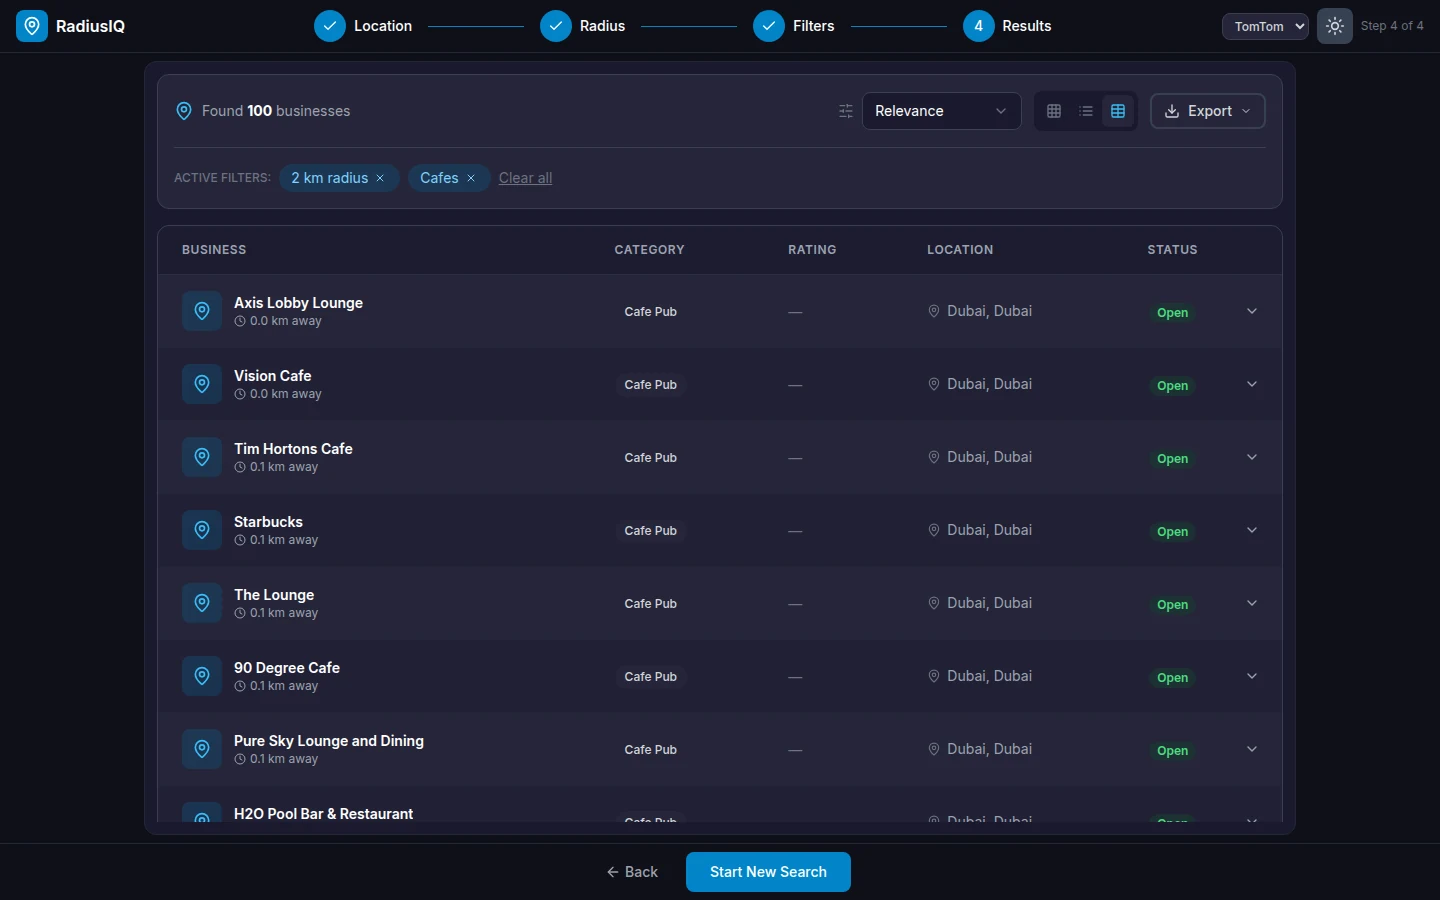
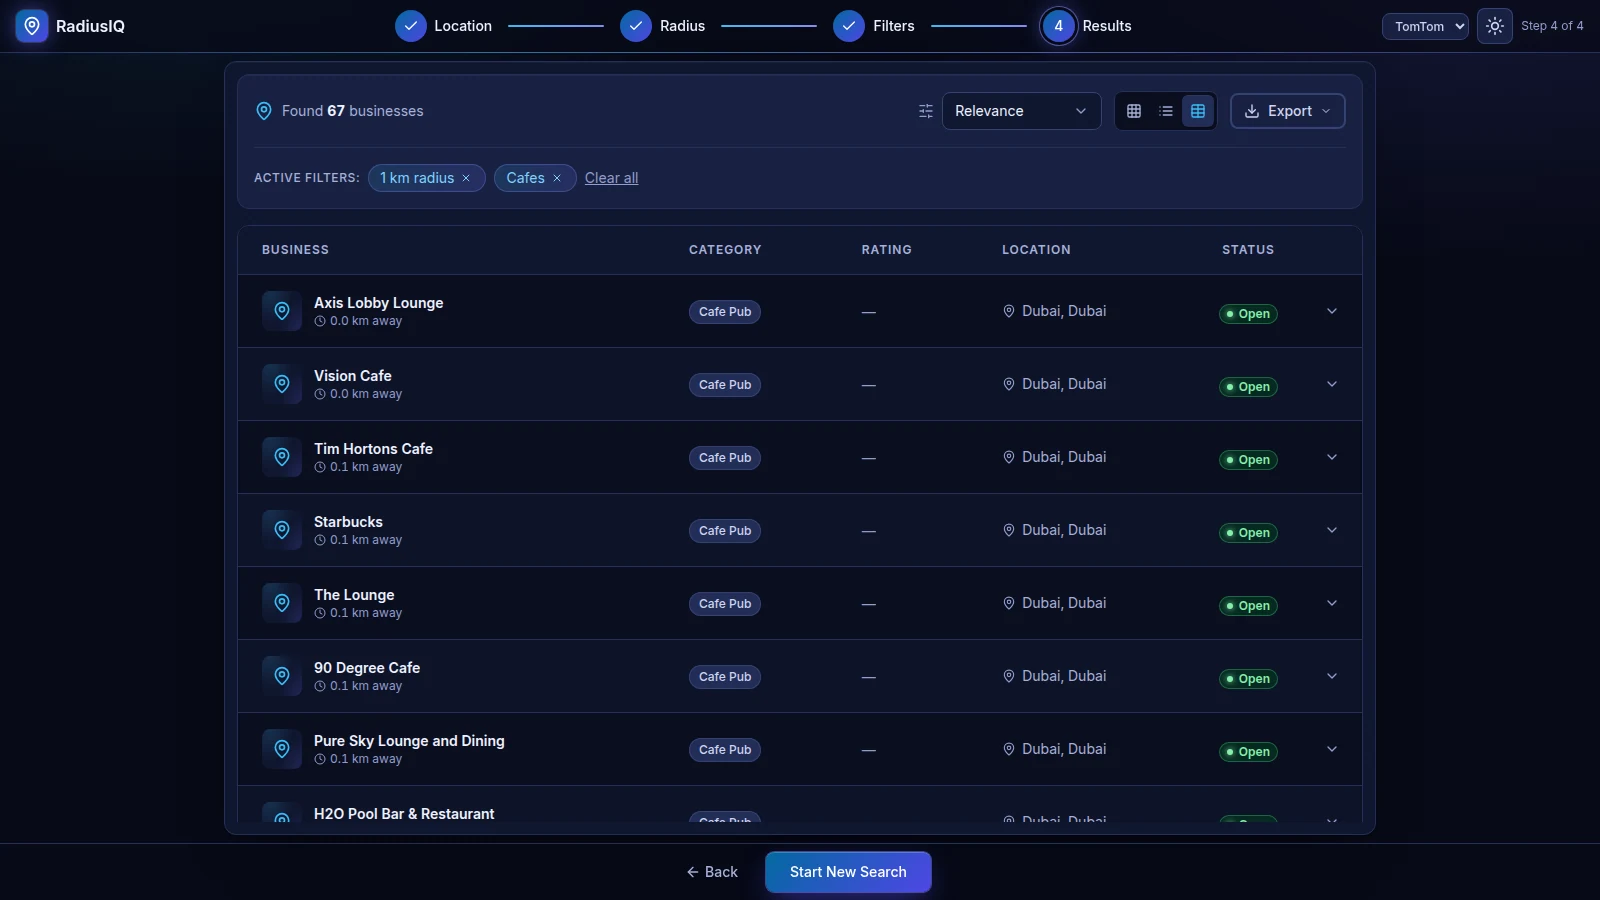
Show the light and dark themes in the screenshots
Replace the screenshots with new 1600x900 captures of the live site in
both the dark Midnight theme and the light theme, from one search for
cafes within 1 km of Dubai Marina. Put a dark hero at the top, lay the
rest out as a dark/light grid, describe the themes in the features list
and remove the old images.

diff --git a/README.md b/README.md
@@ -25,33 +25,50 @@
 > This is a showcase repository. The source code is private (personal project). It documents what the product does, how it's built and my role. Happy to walk through the code in an interview.
 
 <p align="center">
-  <img src="docs/screenshots/results-table.webp" width="100%" alt="RadiusIQ results step in table view: 100 cafes found within a 2 km radius of Dubai Marina, with distance, category, rating and location columns" />
+  <img src="docs/screenshots/radius-dark.webp" width="100%" alt="RadiusIQ in the dark Midnight theme, radius step: slider and 1 km preset selected, with a glowing sky-blue 1 km circle drawn over darkened OpenStreetMap tiles of Dubai Marina" />
 </p>
 
 ## Screenshots
 
-All screenshots are real captures of the live site, taken during one search for cafes within 2 km of Dubai Marina (TomTom provider). The results are public points of interest returned by the TomTom Search API.
+RadiusIQ has a light theme and a dark "Midnight" theme, and every screen is shown in both below. All screenshots are real captures of the live site at 1600x900, taken during one search for cafes within 1 km of Dubai Marina (TomTom provider). The results are public points of interest returned by the TomTom Search API.
 
-<p align="center">
-  <img src="docs/screenshots/location-dubai-marina.webp" width="49%" alt="Step 1, Location: 'Dubai Marina' geocoded from the search box, map centred on the Marina with the coordinates shown next to a Use my location button" />
-  <img src="docs/screenshots/radius-selection.webp" width="49%" alt="Step 2, Radius: slider set to 2 km with 1/5/10/25/50 km presets and the search circle drawn on the map" />
-</p>
-<p align="center">
-  <img src="docs/screenshots/category-filters-searching.webp" width="49%" alt="Step 3, Filters: search summary (coordinates, 2 km radius, 1 category), optional keyword field, Cafes selected among 25 categories in 5 groups, and the Search button in its Searching state" />
-  <img src="docs/screenshots/results-list.webp" width="49%" alt="Step 4, Results in list view: cafe cards with category, distance from the centre point and address" />
-</p>
-<p align="center">
-  <img src="docs/screenshots/business-detail.webp" width="49%" alt="Business detail page for a cafe: name, category, address, a mini map with the location pin, Open in Google Maps and Get Directions actions" />
-  <img src="docs/screenshots/results-table-dark.webp" width="49%" alt="Results table in dark mode" />
-</p>
-
-**Mobile**
-
-<p align="center">
-  <img src="docs/screenshots/mobile-location.webp" width="30%" alt="Mobile: location step with the geocoded Dubai Marina point and radius circle" />
-  <img src="docs/screenshots/mobile-filters.webp" width="30%" alt="Mobile: filters step with search summary, keyword field and category chips" />
-  <img src="docs/screenshots/mobile-business-detail.webp" width="30%" alt="Mobile: business detail page with header card, address and map" />
-</p>
+<table>
+  <tr>
+    <th width="14%"></th>
+    <th width="43%">Dark (Midnight)</th>
+    <th width="43%">Light</th>
+  </tr>
+  <tr>
+    <td><b>1. Location</b></td>
+    <td><img src="docs/screenshots/location-dark.webp" width="100%" alt="Step 1, Location, dark theme: Dubai Marina geocoded from the search box, coordinates next to a Use my location button, and the default circle on darkened map tiles" /></td>
+    <td><img src="docs/screenshots/location-light.webp" width="100%" alt="Step 1, Location, light theme: Dubai Marina geocoded from the search box with the map centred on it and the default search circle" /></td>
+  </tr>
+  <tr>
+    <td><b>2. Radius</b></td>
+    <td align="center"><sub>Shown at the top</sub></td>
+    <td><img src="docs/screenshots/radius-light.webp" width="100%" alt="Step 2, Radius, light theme: slider set to 1 km with 1/5/10/25/50 km presets and the 1 km circle drawn in dark blue on the map" /></td>
+  </tr>
+  <tr>
+    <td><b>3. Filters</b></td>
+    <td><img src="docs/screenshots/filters-dark.webp" width="100%" alt="Step 3, Filters, dark theme: search summary with coordinates, 1 km radius and 1 category, an optional keyword field, and Cafes selected among 25 categories in 5 groups" /></td>
+    <td><img src="docs/screenshots/filters-light.webp" width="100%" alt="Step 3, Filters, light theme: the same summary, keyword field and category chips with Cafes selected" /></td>
+  </tr>
+  <tr>
+    <td><b>4. Results, grid</b></td>
+    <td><img src="docs/screenshots/results-grid-dark.webp" width="100%" alt="Step 4, Results in grid view, dark theme: 67 cafes found, active filter chips for 1 km radius and Cafes, and cards with category, Open badge, address and distance" /></td>
+    <td><img src="docs/screenshots/results-grid-light.webp" width="100%" alt="Step 4, Results in grid view, light theme: the same 67 cafes as cards with category, Open badge, address and distance" /></td>
+  </tr>
+  <tr>
+    <td><b>4. Results, table</b></td>
+    <td><img src="docs/screenshots/results-table-dark.webp" width="100%" alt="Step 4, Results in table view, dark theme: business name with distance, category, rating, location and status columns, nearest first" /></td>
+    <td><img src="docs/screenshots/results-table-light.webp" width="100%" alt="Step 4, Results in table view, light theme: the same columns with Open status pills" /></td>
+  </tr>
+  <tr>
+    <td><b>Business detail</b></td>
+    <td><img src="docs/screenshots/business-detail-dark.webp" width="100%" alt="Business detail page, dark theme: a cafe's name, category, Open Now badge and address, a mini map with the location pin, Open in Google Maps and Get Directions" /></td>
+    <td><img src="docs/screenshots/business-detail-light.webp" width="100%" alt="Business detail page, light theme: the same cafe with address, mini map, Open in Google Maps and Get Directions" /></td>
+  </tr>
+</table>
 
 ## Features
 
@@ -73,7 +90,7 @@ All screenshots are real captures of the live site, taken during one search for 
 **Data and API**
 - Every result is upserted into PostgreSQL, deduplicated by name and coordinates.
 - The API has CSV and XLSX (ExcelJS) export endpoints, filtered and sorted business search, nearby lookup and a category list, all documented with Swagger/OpenAPI.
-- Light and dark themes: the app follows the system preference and has a manual toggle that it remembers.
+- Light and dark ("Midnight") themes built on semantic colour tokens. In dark mode the OpenStreetMap tiles are darkened and the radius circle is drawn in a glowing sky-blue accent. The app follows the system preference and has a manual toggle that it remembers.
 
 ## Architecture
 
@@ -150,7 +167,7 @@ I used AI coding agents as part of the workflow (several feature branches were p
 ## Status
 
 - **Live:** [radius.everbuild.cloud](https://radius.everbuild.cloud). Searching works without an account.
-- **Timeline:** built between January and February 2026 (git history from 24 Jan to 4 Feb 2026), with maintenance since then (base image moved to `node:22-alpine` in October 2026).
+- **Timeline:** built between January and February 2026 (git history from 24 Jan to 4 Feb 2026), with maintenance since then (base image moved to `node:22-alpine` in October 2026, and the light and dark themes reworked in November 2026).
 - **Next:** connect the results toolbar's Export menu and sort control to the existing API endpoints (the export and sorted-search endpoints exist, but the toolbar controls don't call them yet), and add saved searches and history for signed-in users (the data model and search-history endpoints already exist).
 
 ---
